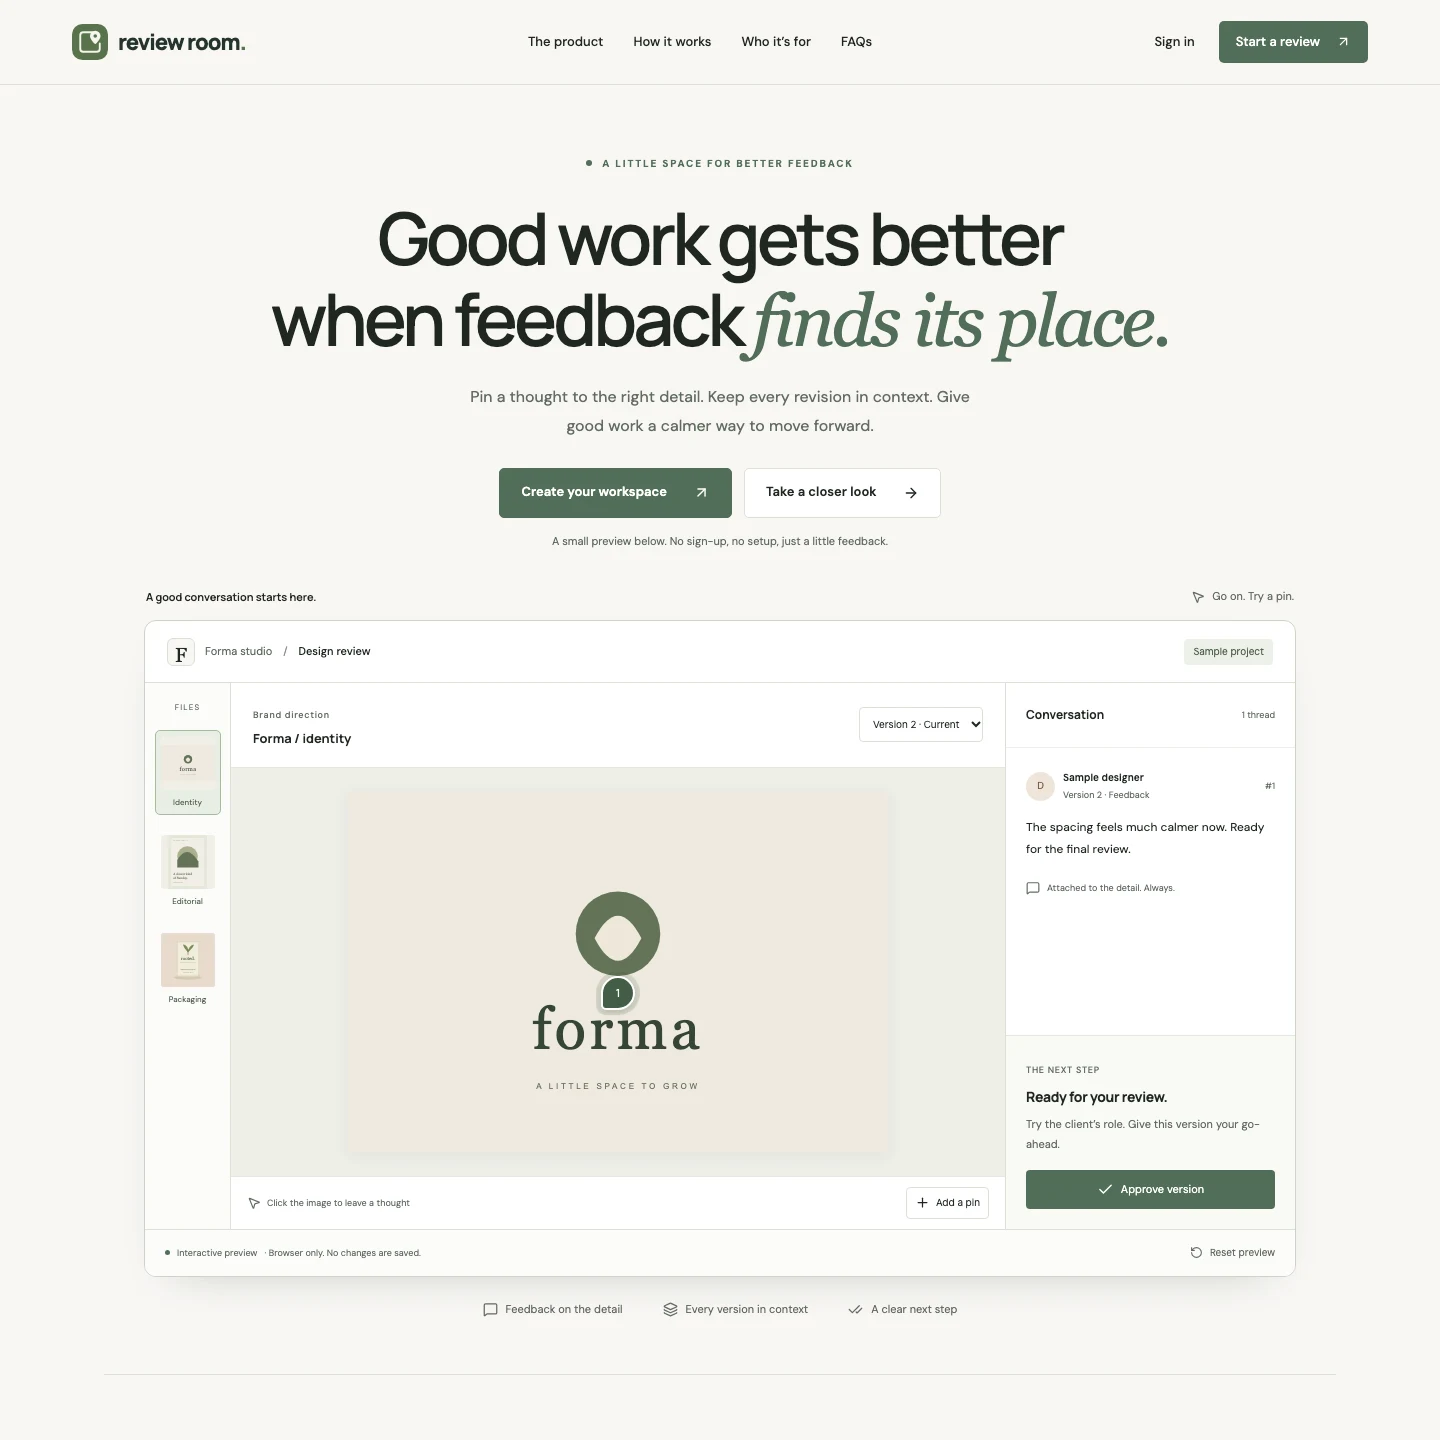
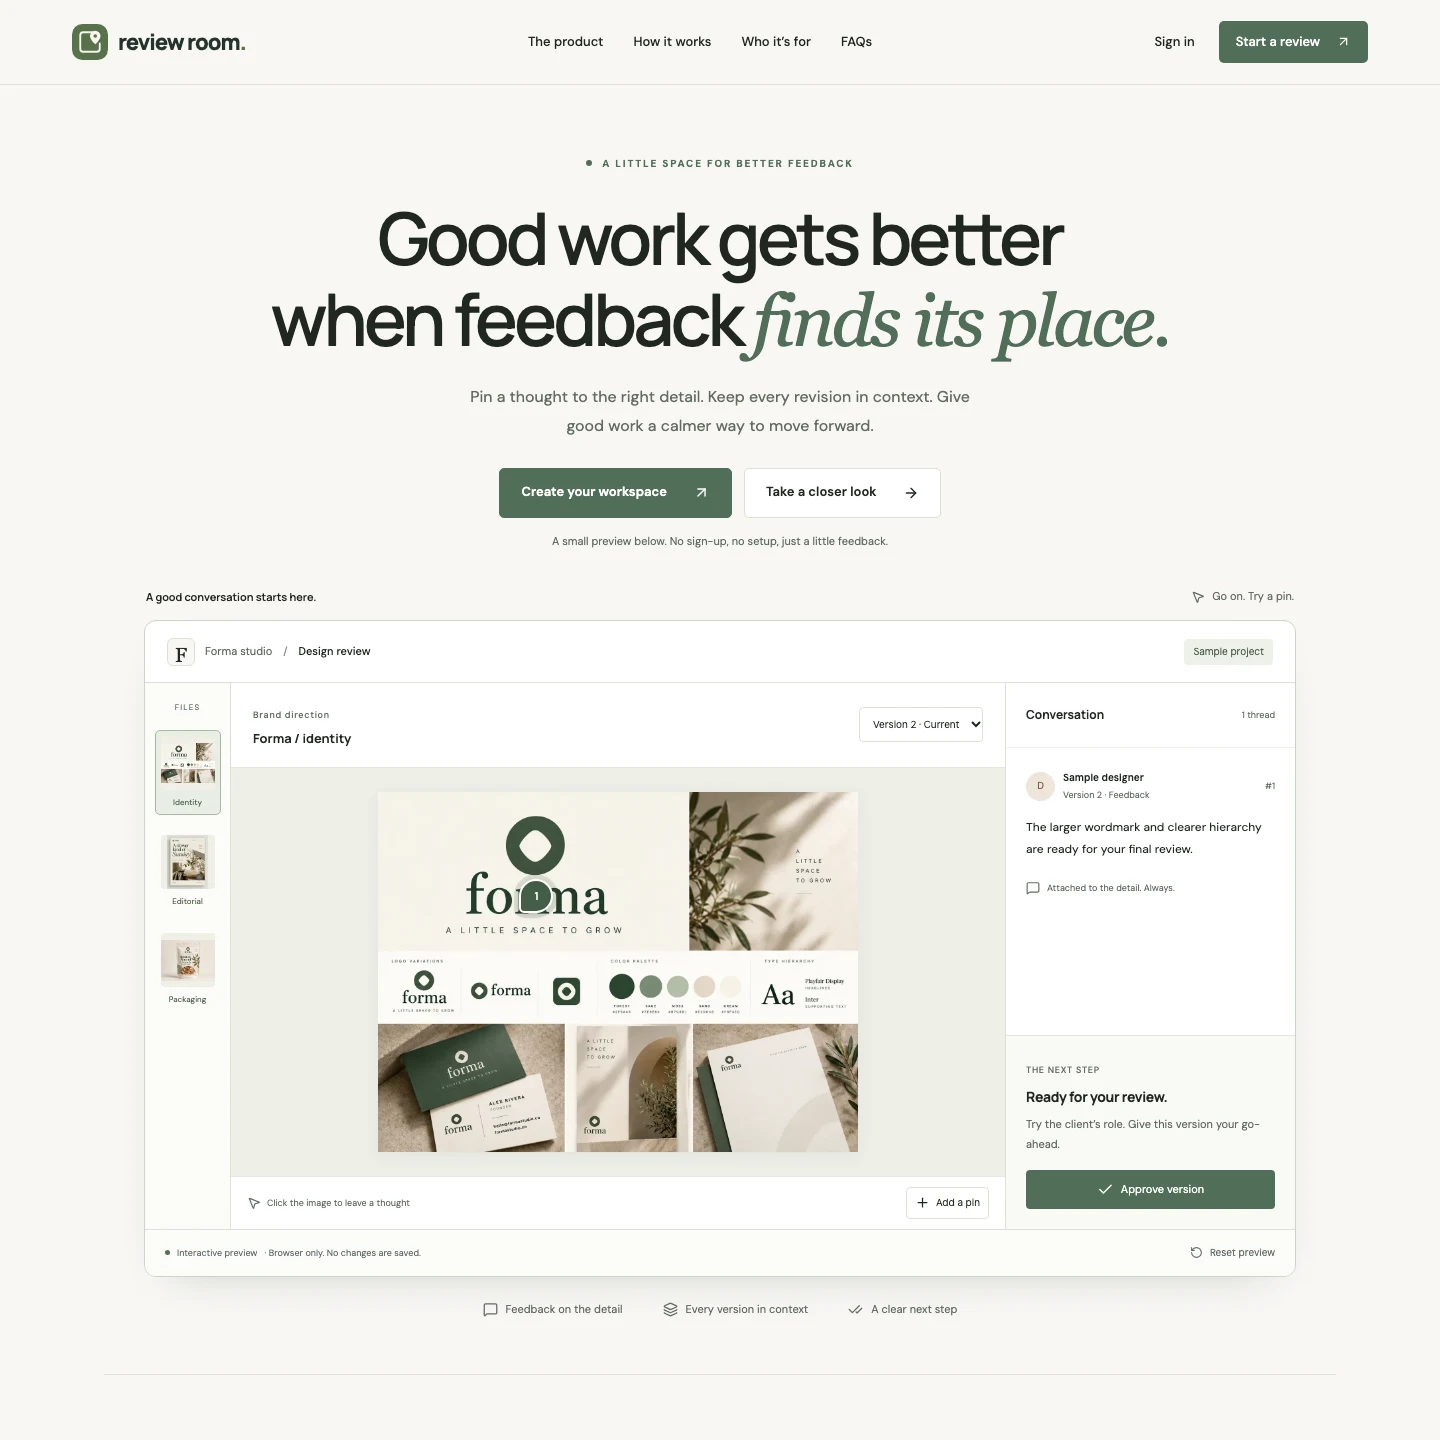
feat: refresh showcase artwork and version-specific feedback

diff --git a/src/features/demo/state.ts b/src/features/demo/state.ts
@@ -45,9 +45,9 @@ export function seededDemo(): DemoState {
         version: 1,
         parentId: null,
         threadNumber: 1,
-        xRatio: 0.5,
-        yRatio: 0.5,
-        body: "Could the wordmark have a little more breathing room?",
+        xRatio: 0.33,
+        yRatio: 0.29,
+        body: "Please make the Forma wordmark larger and give the tagline more breathing room.",
         author: "CLIENT",
         resolved: true,
         createdAt,
@@ -60,7 +60,7 @@ export function seededDemo(): DemoState {
         threadNumber: null,
         xRatio: null,
         yRatio: null,
-        body: "Added space around the mark in version 2. Take a look!",
+        body: "Updated in version 2: a larger wordmark, stronger forest green and clearer contact details.",
         author: "DESIGNER",
         resolved: false,
         createdAt,
@@ -71,9 +71,9 @@ export function seededDemo(): DemoState {
         version: 2,
         parentId: null,
         threadNumber: 1,
-        xRatio: 0.5,
-        yRatio: 0.56,
-        body: "The spacing feels much calmer now. Ready for the final review.",
+        xRatio: 0.33,
+        yRatio: 0.29,
+        body: "The larger wordmark and clearer hierarchy are ready for your final review.",
         author: "DESIGNER",
         resolved: false,
         createdAt,
@@ -84,9 +84,9 @@ export function seededDemo(): DemoState {
         version: 2,
         parentId: null,
         threadNumber: 1,
-        xRatio: 0.42,
-        yRatio: 0.38,
-        body: "This crop and type balance work beautifully together.",
+        xRatio: 0.43,
+        yRatio: 0.36,
+        body: "Sunday feels more prominent, and the smaller badge gives the books room to breathe.",
         author: "CLIENT",
         resolved: true,
         createdAt,
@@ -98,10 +98,101 @@ export function seededDemo(): DemoState {
         parentId: null,
         threadNumber: 1,
         xRatio: 0.5,
-        yRatio: 0.73,
-        body: "Please make the weight label a little easier to read.",
-        author: "CLIENT",
+        yRatio: 0.9,
+        body: "The benefits and net weight are much clearer. Please check the final label before approval.",
+        author: "DESIGNER",
         resolved: false,
+        createdAt,
+      },
+      {
+        id: "90000000-0000-4000-8000-000000000006",
+        assetId: "identity",
+        version: 1,
+        parentId: null,
+        threadNumber: 2,
+        xRatio: 0.58,
+        yRatio: 0.55,
+        body: "Give forest green more emphasis and increase the contrast between the lighter palette swatches.",
+        author: "CLIENT",
+        resolved: true,
+        createdAt,
+      },
+      {
+        id: "90000000-0000-4000-8000-000000000007",
+        assetId: "identity",
+        version: 1,
+        parentId: null,
+        threadNumber: 3,
+        xRatio: 0.28,
+        yRatio: 0.91,
+        body: "Make the business-card contact details larger and darker so they remain readable at a small size.",
+        author: "CLIENT",
+        resolved: true,
+        createdAt,
+      },
+      {
+        id: "90000000-0000-4000-8000-000000000008",
+        assetId: "journal",
+        version: 1,
+        parentId: null,
+        threadNumber: 1,
+        xRatio: 0.39,
+        yRatio: 0.36,
+        body: "Make Sunday more prominent and add space between the headline and supporting text.",
+        author: "CLIENT",
+        resolved: true,
+        createdAt,
+      },
+      {
+        id: "90000000-0000-4000-8000-000000000009",
+        assetId: "journal",
+        version: 1,
+        parentId: null,
+        threadNumber: 2,
+        xRatio: 0.65,
+        yRatio: 0.8,
+        body: "Make this badge smaller and move it right so it covers less of the books. Improve the text legibility too.",
+        author: "CLIENT",
+        resolved: true,
+        createdAt,
+      },
+      {
+        id: "90000000-0000-4000-8000-000000000010",
+        assetId: "packaging",
+        version: 1,
+        parentId: null,
+        threadNumber: 1,
+        xRatio: 0.5,
+        yRatio: 0.27,
+        body: "Make the Forma logo larger and add more space between it and the tagline.",
+        author: "CLIENT",
+        resolved: true,
+        createdAt,
+      },
+      {
+        id: "90000000-0000-4000-8000-000000000011",
+        assetId: "packaging",
+        version: 1,
+        parentId: null,
+        threadNumber: 2,
+        xRatio: 0.44,
+        yRatio: 0.47,
+        body: "Refine the size and spacing of Roasted Almond and Granola so the product name reads at a glance.",
+        author: "CLIENT",
+        resolved: true,
+        createdAt,
+      },
+      {
+        id: "90000000-0000-4000-8000-000000000012",
+        assetId: "packaging",
+        version: 1,
+        parentId: null,
+        threadNumber: 3,
+        xRatio: 0.5,
+        yRatio: 0.89,
+        body: "Make the product benefits and net weight darker, and align the information along the bottom.",
+        author: "CLIENT",
+        resolved: true,
         createdAt,
       },
     ],
@@ -111,13 +202,6 @@ export function seededDemo(): DemoState {
         version: 2,
         decision: "APPROVED",
         note: "Ready to go.",
-        createdAt,
-      },
-      {
-        assetId: "packaging",
-        version: 2,
-        decision: "CHANGES_REQUESTED",
-        note: "Increase the weight-label contrast.",
         createdAt,
       },
     ],

diff --git a/src/features/demo/catalog.ts b/src/features/demo/catalog.ts
@@ -4,8 +4,8 @@ export const demoAssets = [
     title: "Forma / identity",
     category: "Brand direction",
     versions: [
-      { number: 1, width: 1200, height: 800, src: "/demo/identity-v1.svg" },
-      { number: 2, width: 1200, height: 800, src: "/demo/identity-v2.svg" },
+      { number: 1, width: 1448, height: 1086, src: "/demo/identity-v1.webp" },
+      { number: 2, width: 1448, height: 1086, src: "/demo/identity-v2.webp" },
     ],
   },
   {
@@ -13,17 +13,17 @@ export const demoAssets = [
     title: "A slower kind of Sunday",
     category: "Editorial campaign",
     versions: [
-      { number: 1, width: 800, height: 1100, src: "/demo/journal-v1.svg" },
-      { number: 2, width: 800, height: 1100, src: "/demo/journal-v2.svg" },
+      { number: 1, width: 1536, height: 1024, src: "/demo/journal-v1.webp" },
+      { number: 2, width: 1086, height: 1448, src: "/demo/journal-v2.webp" },
     ],
   },
   {
     id: "packaging",
-    title: "Good things take root",
+    title: "Forma / almond granola",
     category: "Packaging concept",
     versions: [
-      { number: 1, width: 1000, height: 1000, src: "/demo/packaging-v1.svg" },
-      { number: 2, width: 1000, height: 1000, src: "/demo/packaging-v2.svg" },
+      { number: 1, width: 1448, height: 1086, src: "/demo/packaging-v1.webp" },
+      { number: 2, width: 1448, height: 1086, src: "/demo/packaging-v2.webp" },
     ],
   },
 ] as const;

diff --git a/src/app/page.tsx b/src/app/page.tsx
@@ -285,8 +285,8 @@ export default function Page() {
                   <Image
                     src={demoAssets[0].versions[0].src}
                     alt="Original Forma brand identity sample"
-                    width={1200}
-                    height={800}
+                    width={demoAssets[0].versions[0].width}
+                    height={demoAssets[0].versions[0].height}
                     unoptimized
                   />
                   <span className={styles.staticPin} aria-hidden="true">
@@ -296,7 +296,10 @@ export default function Page() {
               </div>
               <figcaption className={styles.floatingComment}>
                 <span>PINNED FEEDBACK · SAMPLE CLIENT</span>
-                <p>“Could the wordmark have a little more breathing room?”</p>
+                <p>
+                  “Please make the wordmark larger and give the tagline more
+                  breathing room.”
+                </p>
               </figcaption>
             </figure>
           </div>
@@ -328,7 +331,7 @@ export default function Page() {
                   />
                   <p>
                     {version.number === 2
-                      ? "A little more breathing room."
+                      ? "Larger type. Clearer details."
                       : "The conversation stays here."}
                   </p>
                 </div>

diff --git a/tests/demo.test.ts b/tests/demo.test.ts
@@ -1,5 +1,6 @@
 import { describe, it, expect } from "vitest";
 import { randomUUID } from "node:crypto";
+import sharp from "sharp";
 import {
   signDemoCookie,
   readDemoCookie,
@@ -16,6 +17,27 @@ const env = {
   },
   now = 1800000000000;
 describe("isolated demo contracts", () => {
+  it("matches artwork dimensions and the agreed historical feedback counts", async () => {
+    const seed = seededDemo();
+    for (const [index, asset] of demoAssets.entries()) {
+      expect(
+        seed.comments.filter(
+          (comment) =>
+            comment.assetId === asset.id &&
+            comment.version === 1 &&
+            !comment.parentId,
+        ),
+      ).toHaveLength([3, 2, 3][index]);
+      for (const version of asset.versions) {
+        const metadata = await sharp(`public${version.src}`).metadata();
+        expect([metadata.width, metadata.height]).toEqual([
+          version.width,
+          version.height,
+        ]);
+        expect(metadata.format).toBe("webp");
+      }
+    }
+  });
   it("verifies a signed guest cookie and rejects tampering or expiration", () => {
     const a = newDemoIdentity(),
       cookie = signDemoCookie(a.id, a.token, now + 86400000, env);

diff --git a/src/features/marketing/marketing.module.css b/src/features/marketing/marketing.module.css
@@ -811,8 +811,8 @@
 }
 .staticPin {
   position: absolute;
-  left: 51%;
-  top: 52%;
+  left: 33%;
+  top: 29%;
   display: grid;
   place-items: center;
   width: 30px;

diff --git a/docs/PROGRESS.md b/docs/PROGRESS.md
@@ -298,3 +298,9 @@ Mark a step complete only after its roadmap acceptance checks pass, recording us
 - Production Google initiation returned 503; email/password failure was reported by the owner. Supabase public settings confirmed Google/email enabled and email auto-confirm enabled. The owner's local runtime URL and supplied CA passed verified-TLS database and Prisma/RLS-role reads. This does not establish that Vercel has matching values. The owner reported a new Ready deployment after updating the certificate; successful live sign-in remains unverified.
 - Added secret-safe operation/stage/category diagnostics and correlated public error references to Google initiation and authentication operations. Existing authorization, durable quotas, TLS verification and business logic remain intact. No credentials or raw database exceptions are logged.
 - Validation: 46 focused tests passed; lint, typecheck and Production build passed. A controlled local missing-CA request returned the expected 503 reference and `quota_database` / `database_ca_configuration` log, without connecting to a database or creating accounts. No production fixtures, migration, commit, push or deployment were performed. The owner must deploy these diagnostics to inspect any remaining live failure.
+
+## Refreshed demo artwork (18 October 2026)
+
+- Replaced all six SVG samples with the owner's six WebP V1/V2 images for Forma identity, Sunday journal and almond-granola packaging. Shared catalog paths and actual per-version dimensions now drive homepage previews and the guest demo; journal revisions intentionally retain their different source aspect ratios. Updated static pin placement, sample copy and packaging title.
+- Seeded historical feedback follows the agreed 3/2/3 threads at matching artwork locations, with resolved revision requests and current-version follow-up comments. Identity and packaging remain available for a simulated review decision; the journal demonstrates approval. Existing guest sessions retain their own saved state until explicitly reset; no stored sessions or customer data were changed.
+- Updated artwork provenance, social-preview generation and screenshot capture asset allowlist. Regenerated the social preview and five local portfolio screenshots. Lint, TypeScript/production build and 11 focused tests passed, including actual WebP dimensions and feedback counts. Local Chrome captures verified desktop comparison and mobile feedback layout with intercepted demo data and no backend writes. No staging, commit, push or deployment.

diff --git a/docs/RUNBOOK.md b/docs/RUNBOOK.md
@@ -261,7 +261,7 @@ The logical demo workspace is stored as bounded JSON in its own `app.DemoSession
 
 Each session allows 20 new comments/replies and 100 mutations, including view changes and resets. Quotas survive reset. Writes serialize on the session row and use bounded idempotency receipts; stale reset generations are rejected. New sessions additionally use the existing durable, hashed trusted-Vercel-network limiter: 10 starts per hour. Resuming an active session does not consume that quota. Local development uses the existing shared local bucket. No new paid service or in-memory limiter was added.
 
-The six original SVG files in `public/demo/` are public fictional artwork, with provenance in `public/demo/LICENSE.md`. Three designs each have two immutable sample versions; the first is read only. Upload, invitation, external email, payment and webhook operations are absent from the demo API. Demo pages/API send noindex, no-referrer and no-store; the demo CSP blocks third-party fonts/scripts.
+The six owner-supplied WebP files in `public/demo/` are public fictional artwork, with provenance in `public/demo/LICENSE.md`. Three designs each have two immutable sample versions; the first is read only. Upload, invitation, external email, payment and webhook operations are absent from the demo API. Demo pages/API send noindex, no-referrer and no-store; the demo CSP blocks third-party fonts/scripts.
 
 Expired records become inaccessible immediately, independently of cleanup. Fresh session creation opportunistically removes up to 10 expired marked demo records after responding. For maintenance, run `pnpm demo:cleanup` to delete up to 100 expired marked demo rows per invocation; repeat for additional batches. This command cannot select normal Workspace or Storage rows. Demo artwork is static and creates no temporary Storage objects. No scheduled job has been deployed; schedule bounded cleanup during Step 11 deployment if required. No Supabase Dashboard setting is needed for this step.
 

diff --git a/public/brand/README.md b/public/brand/README.md
@@ -19,7 +19,7 @@ Generated assets:
 - `src/app/favicon.ico`: 16, 32, 48 and 64px entries.
 - `src/app/apple-icon.png`: opaque 180px Apple icon.
 - `icon-64.png`, `icon-192.png`, `icon-512.png`: opaque PNG exports.
-- `social-preview.png`: 1200 × 630px Open Graph/Twitter card using the original fictional Forma sample artwork from `public/demo/identity-v2.svg`.
+- `social-preview.png`: 1200 × 630px Open Graph/Twitter card using the owner-supplied fictional Forma sample artwork from `public/demo/identity-v2.webp`.
 
 Run `pnpm brand:generate` from the repository root after editing the source. This optional command needs local Chrome (default macOS path; override with `CHROME_BIN`) and existing project dependencies. It renders only local artwork/fonts in a temporary browser profile, closes that browser and removes its temporary files. It does not read application credentials or contact a database. Generated images are checked in; build/runtime do not need Chrome, font downloads or image generation.
 

diff --git a/public/demo/LICENSE.md b/public/demo/LICENSE.md
@@ -1,3 +1,5 @@
-Review Room original demo artwork
+Review Room demo artwork
 
-All six SVG designs in this directory were created specifically for this project using original vector shapes and system-font text. They contain fictional sample concepts and no private client work, stock photos or third-party image assets. Copyright belongs to the project authors; redistribution follows the repository LICENSE.
+The six WebP images in this directory were supplied by the project owner for the fictional Forma identity, Sunday journal and almond-granola packaging demo. Each concept has an original and revised version. They replace the earlier code-drawn SVG samples.
+
+These are public demonstration assets, not customer uploads. This note records their source; it does not assert a third-party licence or exclusive copyright ownership.
